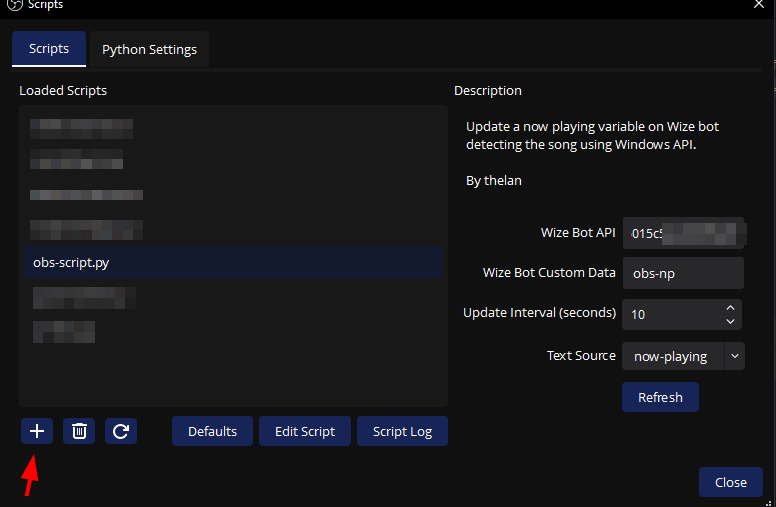
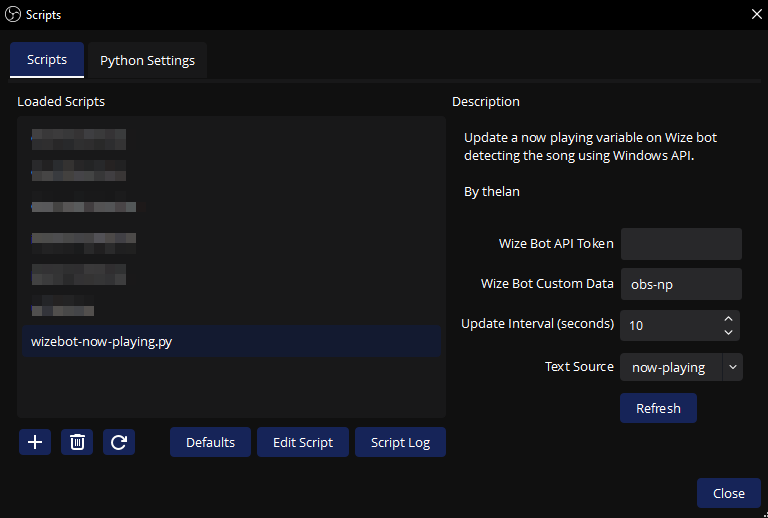
README.md update

diff --git a/README.md b/README.md
@@ -1,6 +1,13 @@
 # OBS Windows Now Playing
 
 This script gather the now playing title from the Windows api.
+Therefore, it's compatible with any media player that publish the track information trough this api.
+
+Reported working with:
+* Deezer (app)
+* Spotify (app/web chromium/web firefox)
+* YouTube (web chromium / web firefox)
+* Also, probably other websites that enable playback control via the multimedia keys 
 
 It updates the current title into a custom data in wize bot streaming tool.
 
@@ -11,8 +18,8 @@ It also can update a local text field to display on stream / debug
 1. Install [Python for Windows](https://www.python.org/downloads/windows/) (tested with 3.11)
 2. Install winsdk package
    
-    From a command prompt or powershell run the following command:
-    ```python -m pip install winsdk==1.0.0b9```
+    From a command prompt or powershell run the following command in the python install directory:
+    ```.\python.exe -m pip install winsdk==1.0.0b9```
 3. Log onto your Wize Bot account and gather the apikey:
    
     ![wizebot-apikey](https://github.com/thelan/obs-windows-nowplaying/blob/master/doc/wizebot-apikey.png?raw=true)
@@ -26,7 +33,7 @@ It also can update a local text field to display on stream / debug
 
    ![configure-python](https://github.com/thelan/obs-windows-nowplaying/blob/master/doc/configure-python.png?raw=true)
 
-    Add the script in the src directory to OBS and configure it
+    Add the script `wizebot-now-playing.py` from the src directory to OBS and configure it
 
    ![OBS-Configure-script](https://github.com/thelan/obs-windows-nowplaying/blob/master/doc/step-config-script.png?raw=true)
 5. Configure Wize Bot to use the Custom data
